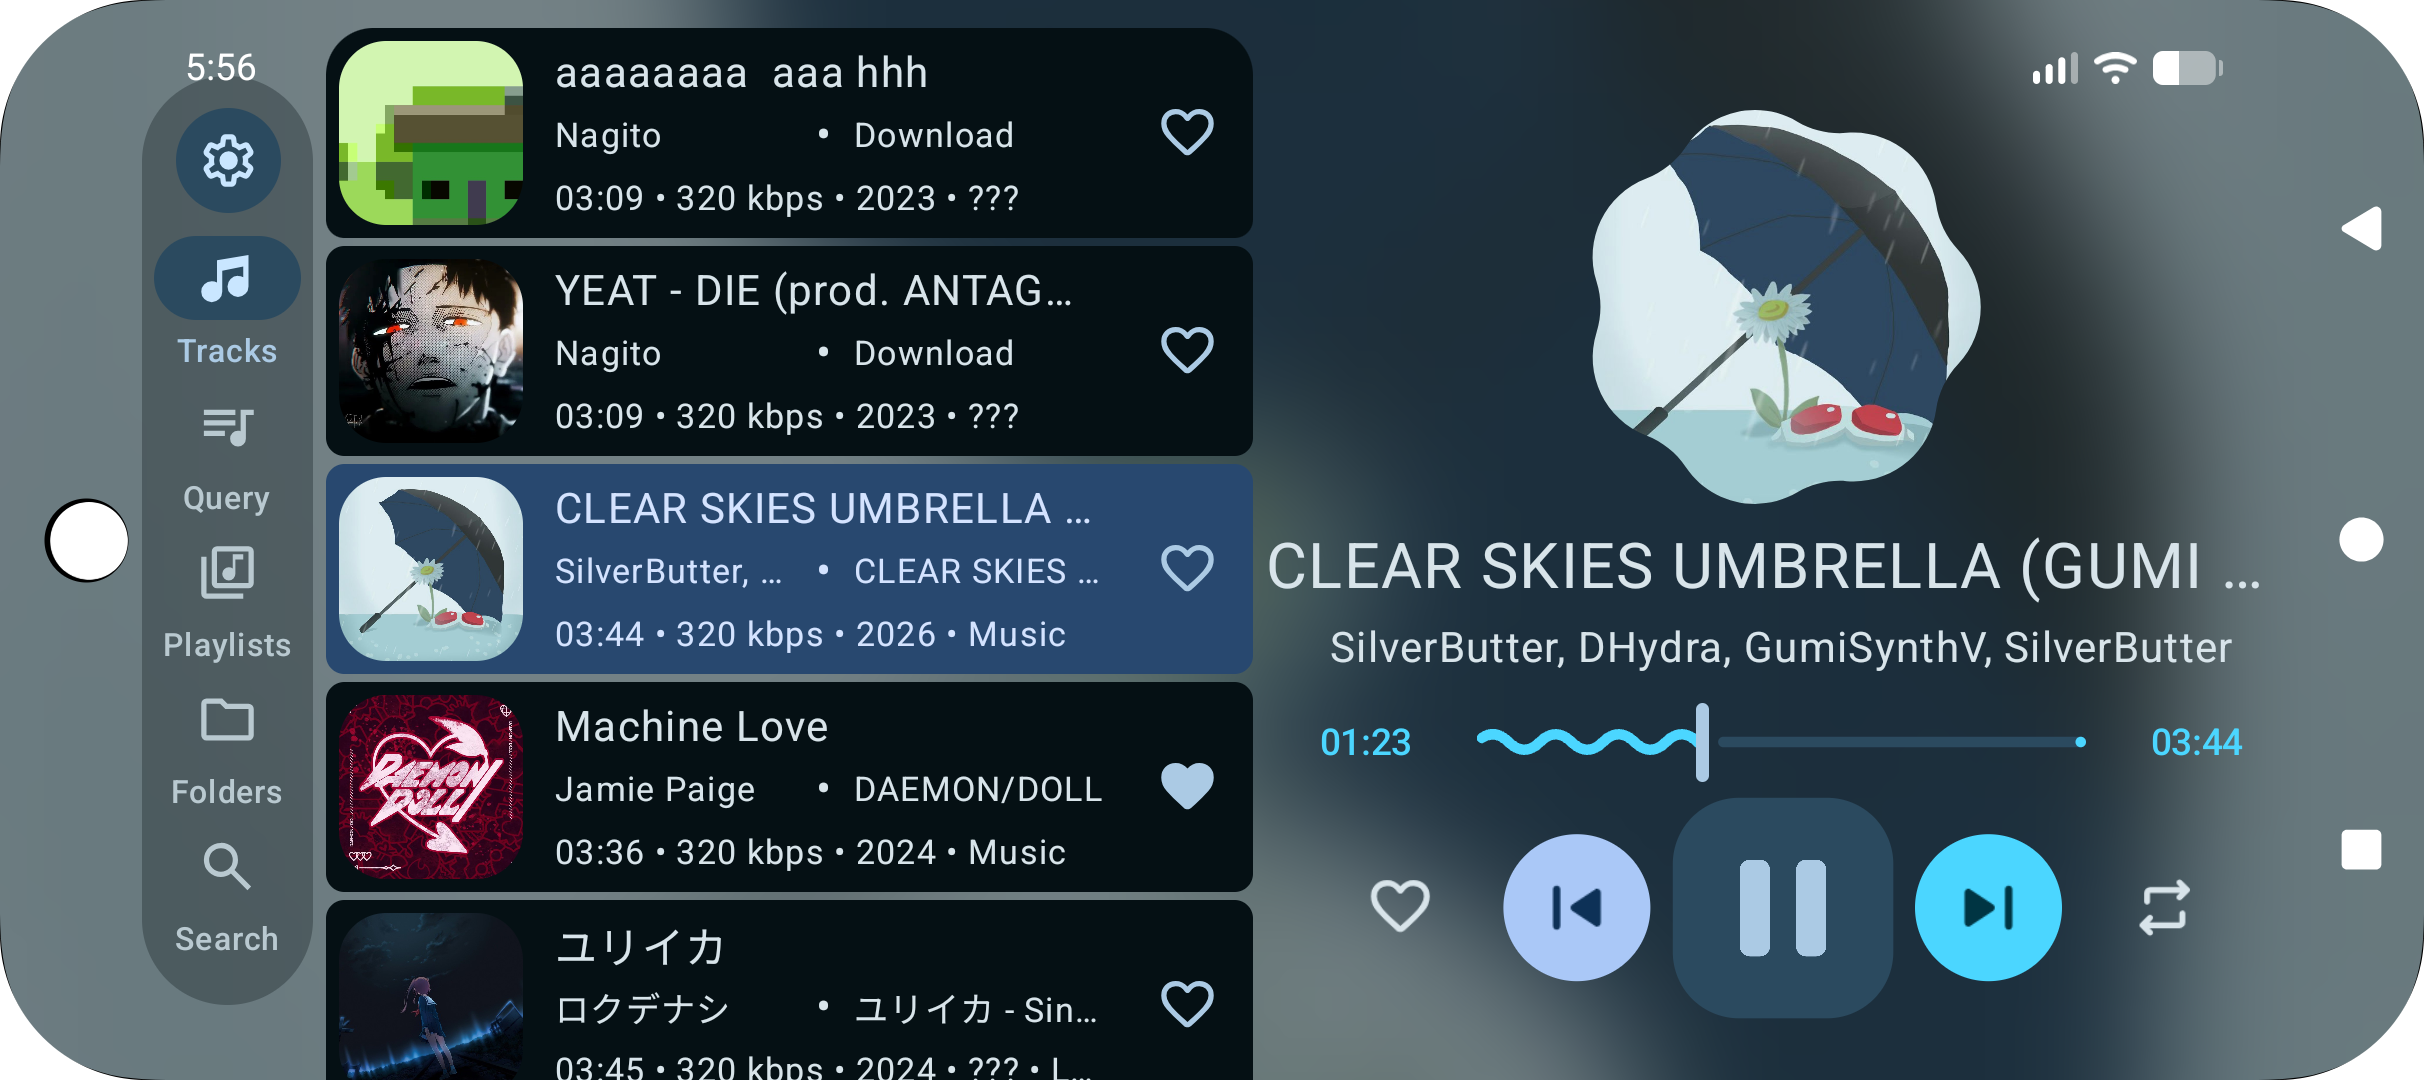
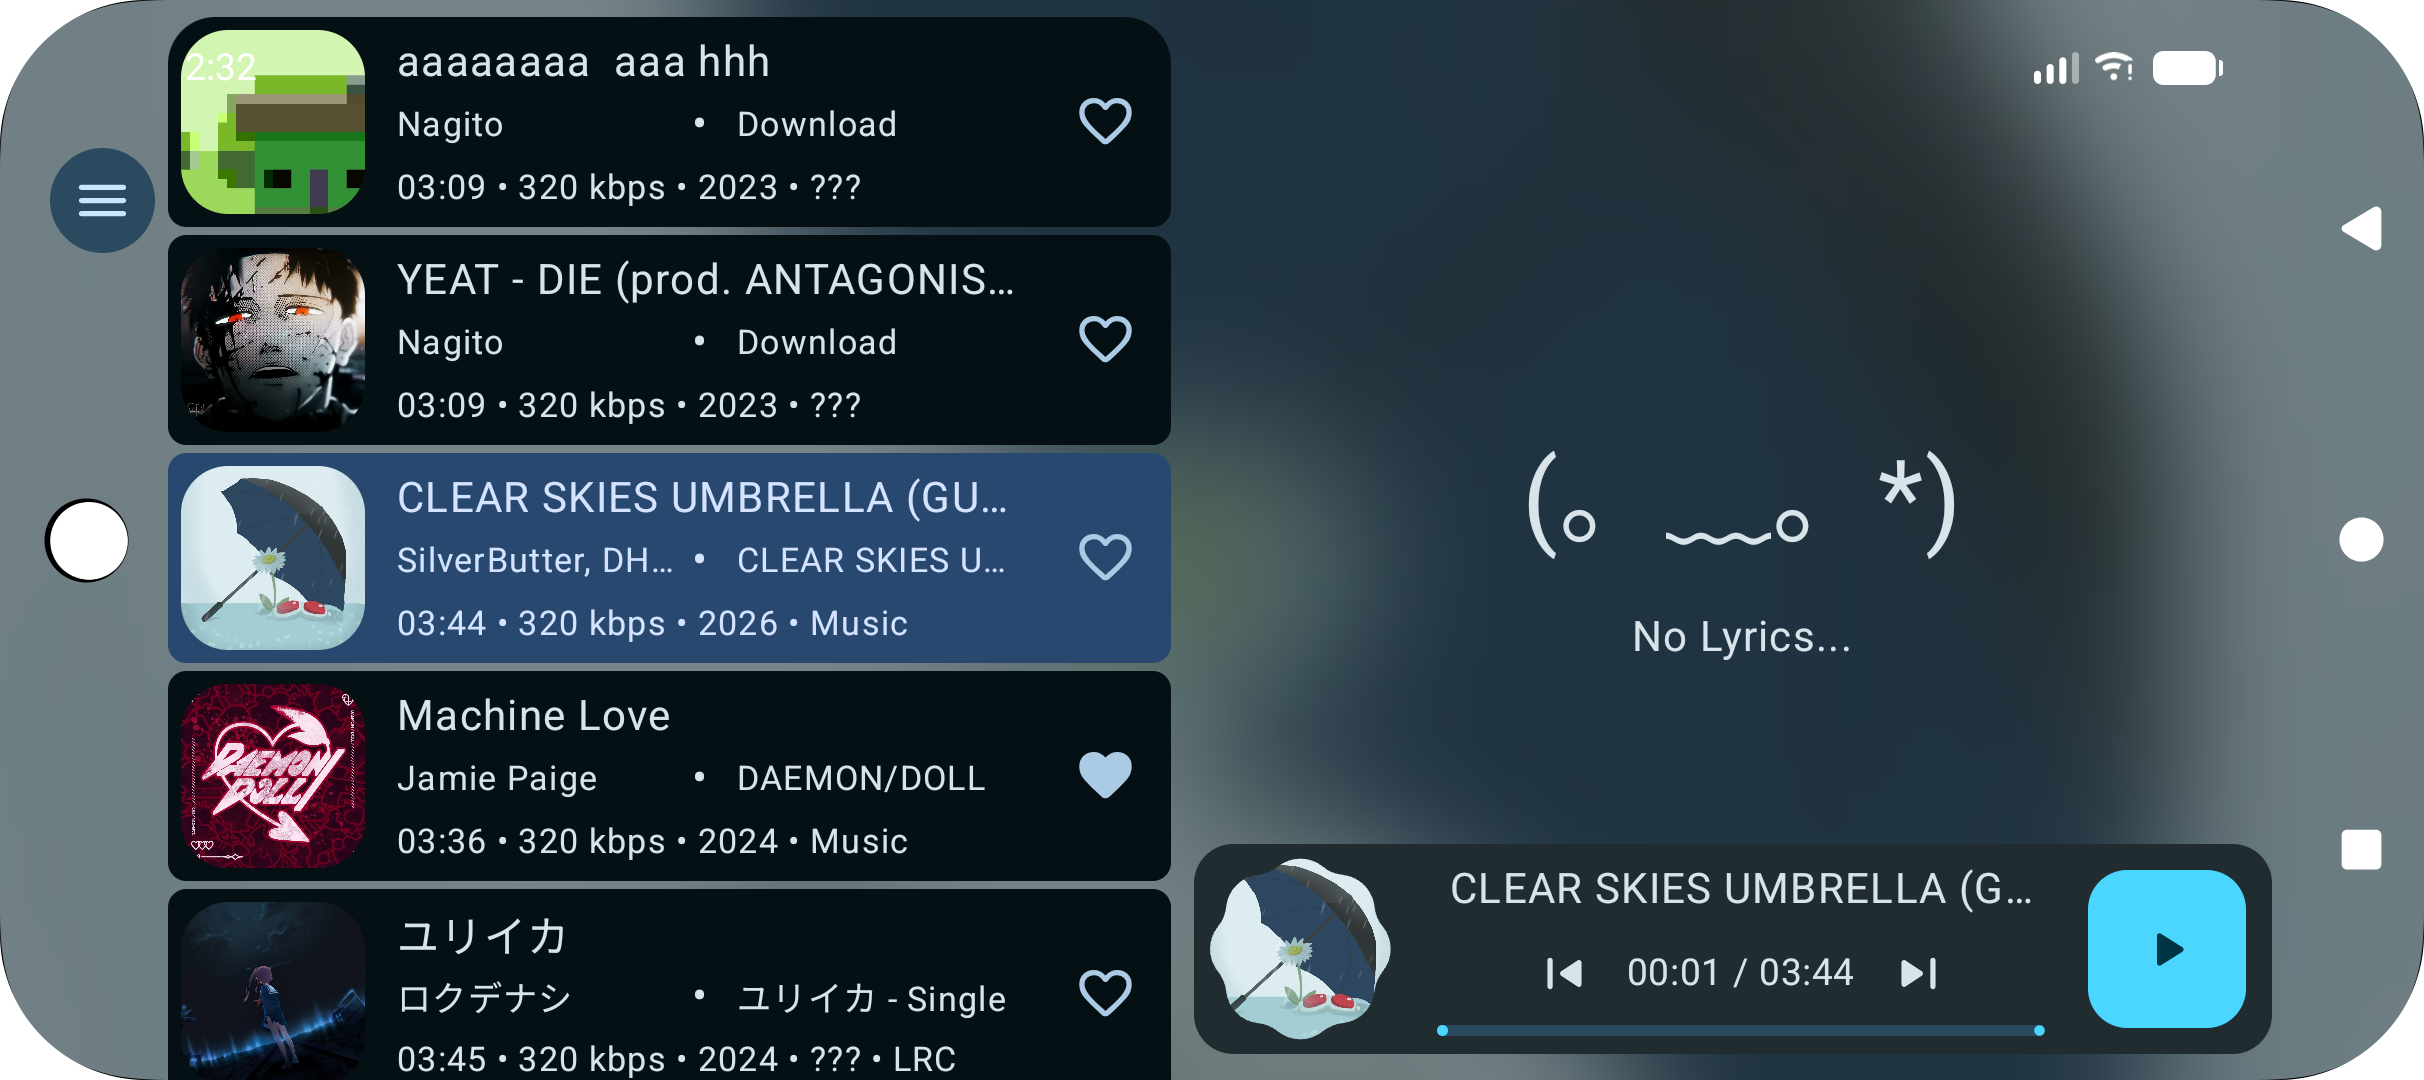
v1.5.20

diff --git a/app/src/main/java/mb28/crysongs/ui/more_pages/ToolsPage.kt b/app/src/main/java/mb28/crysongs/ui/more_pages/ToolsPage.kt
@@ -15,7 +15,6 @@ import androidx.compose.foundation.layout.fillMaxWidth
 import androidx.compose.foundation.layout.height
 import androidx.compose.foundation.layout.padding
 import androidx.compose.foundation.lazy.LazyColumn
-import androidx.compose.material3.Card
 import androidx.compose.material3.CardDefaults
 import androidx.compose.material3.ExperimentalMaterial3ExpressiveApi
 import androidx.compose.material3.MaterialTheme
@@ -25,7 +24,6 @@ import androidx.compose.runtime.Composable
 import androidx.compose.runtime.remember
 import androidx.compose.ui.Alignment
 import androidx.compose.ui.Modifier
-import androidx.compose.ui.geometry.Offset
 import androidx.compose.ui.graphics.Brush
 import androidx.compose.ui.graphics.Color
 import androidx.compose.ui.text.font.FontWeight
@@ -36,7 +34,6 @@ import mb28.crysongs.EXTRA_PATH
 import mb28.crysongs.LrcMakerActivity
 import mb28.crysongs.SoundPickerActivity
 import mb28.crysongs.core.pageAnimation
-import mb28.crysongs.ui.other.CrystalDrawerItem
 
 @OptIn(ExperimentalMaterial3ExpressiveApi::class)
 @Composable

diff --git a/app/src/main/java/mb28/crysongs/ui/other/SettingsSwitch.kt b/app/src/main/java/mb28/crysongs/ui/other/SettingsSwitch.kt
@@ -1,8 +1,5 @@
 package mb28.crysongs.ui.other
 
-import androidx.compose.foundation.layout.Arrangement
-import androidx.compose.foundation.layout.Row
-import androidx.compose.foundation.layout.fillMaxWidth
 import androidx.compose.foundation.layout.padding
 import androidx.compose.material3.ListItemDefaults
 import androidx.compose.material3.MaterialTheme
@@ -10,7 +7,6 @@ import androidx.compose.material3.SegmentedListItem
 import androidx.compose.material3.Switch
 import androidx.compose.material3.Text
 import androidx.compose.runtime.Composable
-import androidx.compose.ui.Alignment
 import androidx.compose.ui.Modifier
 import androidx.compose.ui.unit.dp
 import androidx.compose.ui.unit.sp

diff --git a/app/src/main/java/mb28/crysongs/MainActivity.kt b/app/src/main/java/mb28/crysongs/MainActivity.kt
@@ -2,9 +2,7 @@ package mb28.crysongs
 
 import android.annotation.SuppressLint
 import android.app.ComponentCaller
-import android.app.WallpaperManager
 import android.content.Intent
-import android.graphics.Color
 import android.os.Bundle
 import android.os.Environment
 import android.os.PowerManager
@@ -114,7 +112,6 @@ import mb28.crysongs.ui.other.NavTab
 import mb28.crysongs.ui.other.getCurrentNavItemIcon
 import mb28.crysongs.ui.other.getCurrentNavItemName
 import mb28.crysongs.ui.theme.CrySongsTheme
-import mb28.crysongs.ui.theme.wallpaperIB
 import kotlin.coroutines.cancellation.CancellationException
 import kotlin.time.Duration.Companion.milliseconds
 

diff --git a/app/src/main/java/mb28/crysongs/ui/theme/Type.kt b/app/src/main/java/mb28/crysongs/ui/theme/Type.kt
@@ -2,15 +2,8 @@ package mb28.crysongs.ui.theme
 
 import android.os.Environment
 import androidx.compose.material3.Typography
-import androidx.compose.runtime.getValue
-import androidx.compose.runtime.mutableStateOf
-import androidx.compose.runtime.saveable.rememberSaveable
-import androidx.compose.runtime.setValue
-import androidx.compose.ui.text.TextStyle
 import androidx.compose.ui.text.font.Font
 import androidx.compose.ui.text.font.FontFamily
-import androidx.compose.ui.text.font.FontWeight
-import androidx.compose.ui.unit.sp
 import mb28.crysongs.core.Settings
 import java.io.File
 

diff --git a/app/src/main/java/mb28/crysongs/ui/other/CrystalDrawerItem.kt b/app/src/main/java/mb28/crysongs/ui/other/CrystalDrawerItem.kt
@@ -7,7 +7,6 @@ import androidx.compose.foundation.layout.Box
 import androidx.compose.foundation.layout.Row
 import androidx.compose.foundation.layout.fillMaxWidth
 import androidx.compose.foundation.layout.padding
-import androidx.compose.foundation.shape.CircleShape
 import androidx.compose.foundation.shape.RoundedCornerShape
 import androidx.compose.material3.Icon
 import androidx.compose.material3.MaterialTheme

diff --git a/app/src/main/java/mb28/crysongs/ui/popups/FlagsPopup.kt b/app/src/main/java/mb28/crysongs/ui/popups/FlagsPopup.kt
@@ -15,7 +15,6 @@ import androidx.compose.runtime.Composable
 import androidx.compose.ui.Modifier
 import androidx.compose.ui.unit.dp
 import androidx.compose.ui.util.fastRoundToInt
-import androidx.glance.appwidget.RadioButton
 import mb28.crysongs.core.Settings
 import mb28.crysongs.ui.other.EdgeLightingEffect
 import mb28.crysongs.ui.other.SettingSwitch

diff --git a/README.md b/README.md
@@ -7,16 +7,17 @@ Android music player app designed for local library, simplicity & performance.
 - 🪶 Simple UI, easy to navigate
 - ✨ Play any audio format
 - 🍃 Material 3 expressive
+- 🧩 Live blur (Experimental) + Mica background blur
 - 🎨 Can change app font to any .ttf font file
 - 🧱 Homescreen widgets
 - 📦 Only 7 megabytes
 - 🟢 Android 13+ and TV support
 - 📃 Live notification that shows lyrics if LRC file for music is available
 
-[//]: # (Other features:)
-[//]: # (- Tag editor &#40;Experimental&#41;)
-[//]: # (- LRC maker)
-[//]: # (- Sound picker for other apps to use)
+Other features:
+- Tag editor (Experimental)
+- LRC maker
+- Sound picker for other apps to use
 
 To-Do
 - [ ] Add edge lighting effect
@@ -29,7 +30,7 @@ To-Do
 
 ## Screenshots
 
-Screenshots are synced with v1.5.0
+Screenshots are synced with v1.5.20
 
 |                         | Light                          | Dark                           |
 |-------------------------|--------------------------------|--------------------------------|

diff --git a/Changelog.md b/Changelog.md
@@ -1,10 +1,15 @@
-## v1.5.20 (Upcoming)
-- Add Mica background (turned off by default)
+## v1.5.20 (Latest)
+- Fix: ui doesn't update when reordering playlist songs
+- Add Mica background
 - Background changes now applies to all activities (except Sound Picker)
-- App now only supports arm64-v8a.
-  - Around 99% android 13+ devices are support arm64-v8a
 
-## v1.5.10 (Latest)
+Other:
+- Landscape mode improvements
+- Other ui improvements & bug fixes
+- App now only supports arm64-v8a.
+  - Around 99% of android 13+ devices are support arm64-v8a
+
+## v1.5.10
 - Add LRC Maker. can be found in tools tab
 - Add sound picker
 - Add option to filter tracks by duration
